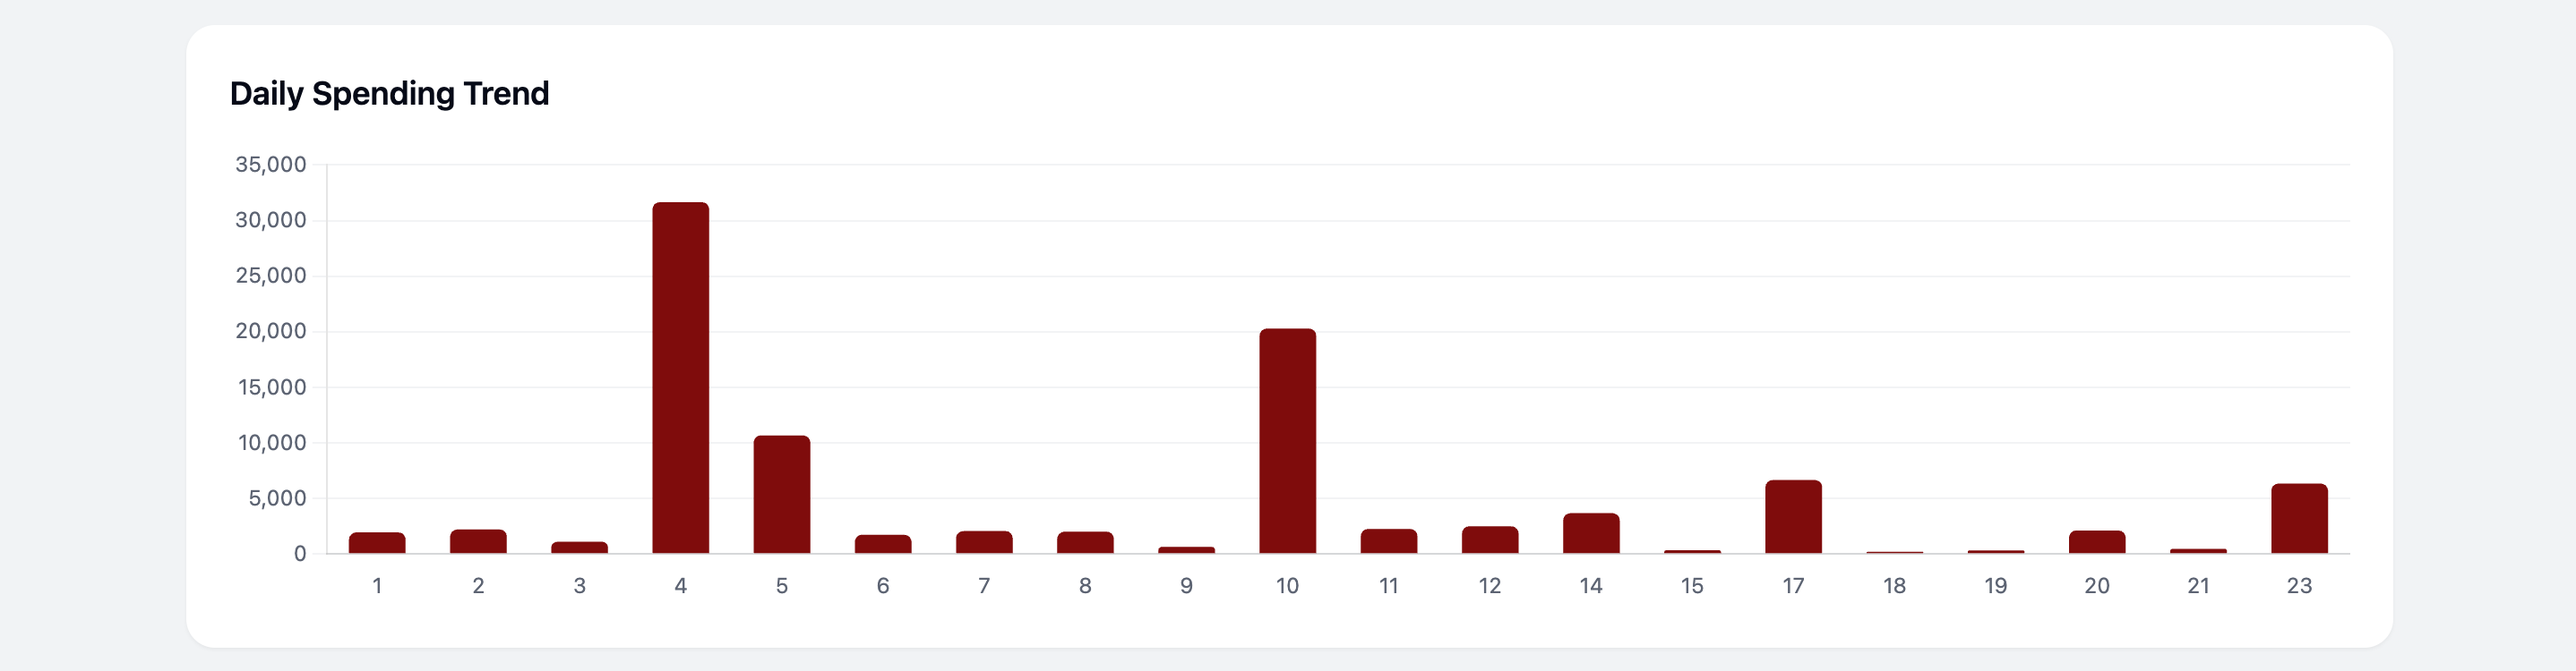
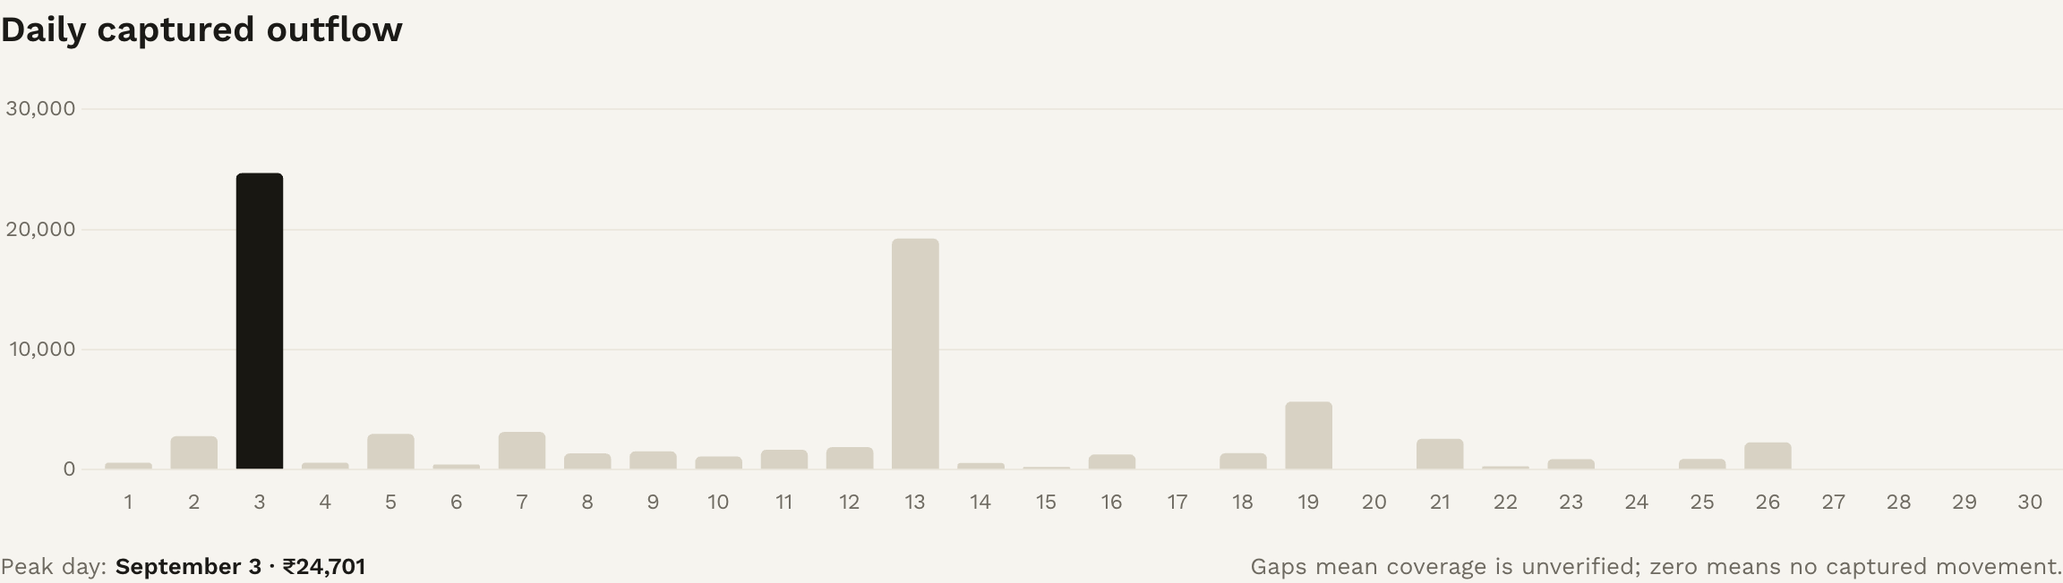
docs: update README and screenshots for the redesign
Screenshots now come from the synthetic demo database instead of real data.
Documents the review workflows, merchant-wide edits, comparison rules, demo data,
the reviewed-repair tool and migrations 005 to 007.

diff --git a/README.md b/README.md
@@ -8,37 +8,42 @@ A fully automated personal finance tracker that ingests Bank transaction emails 
 
 ![Year Overview](docs/screenshots/Year_view.png)
 
-*Annual overview: total spend, income, savings, variable-size spending intensity heatmap, and a monthly bar chart.*
+*Annual overview: captured outflow and inflow, net cash flow, a month-by-month spending-intensity grid, category totals, and monthly outflow vs inflow. All screenshots use the synthetic demo database (see [Demo data](#demo-data)).*
 
 ---
 
 ## Features
 
 ### Automated Email Ingestion → Transaction Extraction
-Connects to Gmail via OAuth2 and fetches HDFC Bank alert emails incrementally (only since the last stored date). Each email is regex-parsed to extract amount, date, direction, merchant, source, and UPI reference. Only confirmed `success` transactions are stored — failed and attempted are discarded.
+Connects to Gmail via OAuth2 and fetches every page of matching HDFC Bank alerts, with a recent overlap for late arrivals. Validated successful events enter the ledger; failed, incomplete, or ambiguous messages retain their raw evidence and processing outcome for review.
 
 ### Three-Tier Classification Engine
-Every transaction is assigned to one of 10 categories through a self-learning pipeline:
+Every transaction is assigned to one of 10 categories:
 
 ![Classifier](docs/diagrams/Classifier.png)
 
-- **Tier 1 — Rule-based:** Substring match against a `merchant_categories` table (74+ patterns). Instant, confidence = 1.0.
-- **Tier 2 — LLM fallback:** Claude Haiku classifies unmatched merchants and returns a confidence score. Results ≥ 0.9 are auto-promoted to rules for future use.
-- **Tier 3 — Manual override:** Inline category editing from the Transactions page. Every correction is auto-learned as a new rule.
+- **Tier 1 — Rules:** curated substring patterns plus exact merchant rules you create. Instant, confidence = 1.0.
+- **Tier 2 — Claude Haiku:** classifies merchants no rule matches. Responses are validated, and model decisions never create rules on their own. Incoming money is never assumed to be income, and names are never assumed to be transfers.
+- **Tier 3 — You:** anything unclassified or below 0.9 confidence is marked **Needs review**. Fix it inline; tick **Use for all payments to this merchant** to fix every automated payment to that merchant and future ones in one edit, with a single Undo.
 
 ### Monthly Dashboard with Anomaly Callouts
 
 ![Monthly Overview](docs/screenshots/Monthly_Overview.png)
 
-Flags categories spending >50% above their 3-month rolling average (with a minimum ₹500 absolute deviation) as amber callout cards. Stats cards show total spend, month-over-month % change, and top category share.
+Compares each category's spend over the elapsed days of the month with the same days in the previous three months. Categories more than 50% (and ₹500) above their average are listed; jumps of 100% or more are flagged. The month-over-month change and anomaly callouts appear only when every compared period has verified scan coverage, and a banner links to transactions that need review.
 
 ![Daily Spending Trend](docs/screenshots/Daily_Spend_Trend.png)
 
-### Transactions with Low-Confidence Flagging
+*Days without verified coverage show as gaps, never as zero spending.*
+
+### Transactions and the Needs Review List
 
 ![Transactions](docs/screenshots/Transactions.png)
 
-Live search, category filter, and paginated table. Transactions classified by the LLM with confidence < 0.9 are flagged with a **"Low Confidence — verify"** indicator and an amber row highlight. Correcting the category inline clears the flag and auto-learns the rule.
+Live search, category filter, and pagination. The **Needs review** tab lists unclassified and low-confidence decisions grouped by merchant, largest groups first, so one merchant-wide fix clears the most rows.
+
+### Data Quality: Review Queue and Data Status
+Bank alerts the parser cannot read confidently are quarantined on the **Review** page with reasons, outside all totals. After a parser update, **Retry with current parser** reprocesses a message in one click. The **Data status** page shows pipeline health, scan coverage, and backlogs.
 
 ### Natural Language Query Bot
 
@@ -57,7 +62,7 @@ Example questions:
 All generated SQL is validated (SELECT/WITH only, no DDL), capped at 50 rows, and executed with an 8-second timeout.
 
 ### Nightly Automation
-A macOS launchd job runs four phases at 00:01 every night — ingestion, extraction, classification, and a staleness health check that sends a macOS notification if no emails have been ingested for 3+ days.
+A macOS launchd job runs ingestion, extraction, classification, and health checks at 00:01 every night. It continues useful backlog work after a failure, returns a nonzero aggregate exit status, and uses completion coverage rather than the age of the last bank email. Scheduled checks send configured email alerts on failures; manual checks are quiet unless `--notify` is supplied.
 
 ---
 
@@ -73,6 +78,208 @@ A macOS launchd job runs four phases at 00:01 every night — ingestion, extract
 
 ---
 
+## Database setup and regression tests
+
+Create the `expenso` database, then apply migrations in filename order:
+
+```bash
+psql -U postgres -c 'CREATE DATABASE expenso;'
+psql -v ON_ERROR_STOP=1 -1 -U postgres -d expenso \
+  -f migrations/000_create_raw_emails.sql \
+  -f migrations/001_create_transactions.sql \
+  -f migrations/002_add_classification_fields.sql \
+  -f migrations/003_event_validation_and_review.sql \
+  -f migrations/004_pipeline_tracking.sql \
+  -f migrations/005_historical_correction_audit.sql \
+  -f migrations/006_classification_review.sql \
+  -f migrations/007_classification_edit_batches.sql
+poetry run python -m unittest discover -s tests -v
+```
+
+Python entry points load the project-root `.env` before reading configuration;
+exported variables take precedence. `EXPENSO_ENV_FILE` selects an alternate file.
+Database regression tests create and stop a disposable PostgreSQL cluster, using
+synthetic records only. Set `PG_BIN` to its binaries if they are not on PATH;
+Postgres.app 17 is also detected. Missing binaries skip the database tests.
+
+Extraction replay preserves existing classifications, including manual edits.
+Batch counts report committed input records, including updates and repeated IDs,
+not newly created rows. Unassigned categories display as **Unclassified**.
+
+### Upgrading an existing installation
+
+For an installation that already has migrations 001 and 002, apply the additive
+event-validation, pipeline-tracking, repair-audit and classification migrations
+before running the updated app or job:
+
+```bash
+psql -v ON_ERROR_STOP=1 -1 -U postgres -d expenso \
+  -f migrations/003_event_validation_and_review.sql \
+  -f migrations/004_pipeline_tracking.sql \
+  -f migrations/005_historical_correction_audit.sql \
+  -f migrations/006_classification_review.sql \
+  -f migrations/007_classification_edit_batches.sql
+```
+
+Do not rerun migration 002 as an upgrade step: its seed UPSERTs replace existing
+merchant rules. Migration 003 preserves historical rows and adds validation for
+new/updated records; existing invalid records require a separately reviewed
+backfill before validating the constraint across all history.
+
+The parser uses exact decimal amounts, explicit movement wording, complete dates,
+and decoded message bodies. Incomplete, conflicting, unsupported-currency, and
+possible-duplicate messages are kept on the **Review** page (`/review`) with
+reasons, outside financial totals. Raw email evidence is retained. After a parser
+fix, reparse an item with **Retry with current parser**, or all of them at once:
+
+```bash
+poetry run python app/extract_transactions.py --retry-review --limit 100
+```
+
+Notification mappings prevent repeated ingestion from changing totals. Bank
+references are scoped to channel, account suffix, and event kind. Refunds and
+reversals retain separate events and link to an unambiguous original, in either
+arrival order. Similar card notices and repeated credits require review rather
+than automatic merging. A matching legacy notification retains its original ID
+and manual classification; conflicting reprocessing is queued without rewriting
+its original financial record. This does not repair previously collapsed events
+or certify that every bank template is supported.
+
+### Classification and manual corrections
+
+Classification decisions do not create merchant rules automatically. Incoming
+movement alone does not establish income; new incoming transactions are marked
+Other with review required. Unknown names are not assumed to be transfers.
+Model-derived rules retain their original confidence and model provenance;
+existing model rules match only the exact normalized merchant. Curated substring
+rules match literal text, including `%` and `_` characters.
+
+Category edits default to **this transaction only**. For outgoing payments, the
+optional **Use for all payments to this merchant** checkbox creates an exact rule
+for future payments and also recategorizes the merchant's other *automated*
+payments (rule or model decisions, including unclassified ones). Payments you
+categorized yourself are never changed. The checkbox shows how many payments it
+will update. Transaction, batch and rule changes commit together, and each batch
+row is recorded in `classification_edits` linked to the edit you made
+(`batch_id`, migration 007). **Undo** restores the edited transaction, the rule,
+and every batch row that has not been changed since; later edits are kept. The
+Undo control appears after a successful edit (as a notice above the list for batch
+edits); history browsing is not implemented.
+
+Unclassified and low/unknown-confidence automated decisions show **Needs review**,
+regardless of whether they came from a rule or the model. Manual decisions survive
+both replay and `--all` classification, including concurrent automated updates.
+Temporary classification failures remain retryable. `--dry-run` performs no
+transaction, rule, or audit writes, but can still call the paid model for previews.
+Model responses are validated and calls have explicit timeout/retry limits.
+
+Apply migrations 006 and 007 before using these controls. They add exact/substring
+rule scope and edit history; they do not rewrite stored transaction classifications.
+
+### Comparisons and unresolved messages
+
+Month-over-month changes and anomaly callouts compare only periods inside recorded
+scan coverage. An unresolved (review or failed) message blocks comparisons only for
+periods that end within 7 days before its receipt or start by the day after, since
+bank alerts arrive with or shortly after the movement; a message with an unknown
+receipt time blocks all comparisons.
+
+### Pipeline completion and recovery
+
+The normal ingestion path streams pages without a message cap. An explicit
+`--max-results` cap fails as incomplete when a continuation remains; it never
+advances the checkpoint. Stored pages survive a later failure, and the next run
+retries the window with idempotent writes. Failed or interrupted initial windows
+retain their original start date even when the next run happens days later.
+
+Incremental scans use a seven-day overlap and initially search the last 30 complete
+days if no completion checkpoint exists. Use `--overlap-days` or `--initial-days`
+to change those bounds, or run explicit monthly scans to reconcile older history.
+Late arrivals older than the overlap require an explicit historical rescan.
+Disconnected completed windows do not imply that the gap was searched.
+
+Dates use `EXPENSO_TIMEZONE` (default `Asia/Kolkata`) with epoch search bounds;
+Gmail's date-string searches otherwise use Pacific time. See the
+[Gmail filtering documentation](https://developers.google.com/workspace/gmail/api/guides/filtering)
+and [pagination contract](https://developers.google.com/workspace/gmail/api/reference/rest/v1/users.messages/list).
+Coverage means all pages of the configured sender/keyword search were persisted,
+not that every account or bank template is represented.
+
+```bash
+poetry run python -m app.ingest --mode incremental
+poetry run python -m app.pipeline extraction
+poetry run python -m app.pipeline classification
+poetry run python scripts/check_pipeline_health.py
+```
+
+`/pipeline` displays recorded stage outcomes, coverage, retryable failures, and
+extraction/classification/review backlogs. `/health` is liveness; `/ready` checks
+database/schema availability. A complete empty search may be healthy, while
+parsing quality remains unknown without enough accepted records. The parsing
+quality CLI exits 2 for insufficient evidence; the nightly job logs this as
+unknown, not a failed phase. Other failures remain nonzero.
+
+`pipeline_runs` retains per-stage attempts and counts; `email_processing_outcomes`
+records accepted, duplicate, rejected, review, and failed outcomes. Transient
+classification fallbacks remain retryable. Run the scheduled wrapper for durable
+extraction/classification stage tracking; direct utility calls do not create stage
+run records. Set `EXPENSO_PYTHON` or `EXPENSO_POETRY` for the shell runner when needed.
+
+### Staged historical repair report
+
+```bash
+poetry run python scripts/stage_historical_repair.py
+```
+
+This reads a repeatable, read-only database snapshot, reparses stored emails, and
+writes a private Markdown summary plus detailed JSON under
+`reports/historical-repair/<timestamp>/` (ignored by Git; files are owner-only).
+It works before migrations 003/004 are applied, performs no Gmail or AI calls,
+and has no apply mode. It shows proposed changes, preserved manual corrections,
+duplicate/reversal candidates, unresolved records, and current/staged totals by
+currency and month. Parser and snapshot hashes identify the evidence used.
+Uncertain old records remain in staged totals; uncertain new records stay out.
+Review flags are not proof that the historical transaction was incorrect.
+
+### Applying an investigated repair
+
+`scripts/apply_reviewed_repair.py` is a separate, explicit apply tool for a reviewed
+manifest; it does not automatically approve staged proposals. The manifest lists
+exact raw rows, existing transaction snapshots, reviewed actions and reasons, and
+expected financial fields for each confirmed or missing movement.
+
+```bash
+poetry run python scripts/apply_reviewed_repair.py path/to/manifest.json --output reports/historical-repair/reviewed/preview.json
+# Use the digest printed by the preview, after reviewing its exact actions.
+poetry run python scripts/apply_reviewed_repair.py path/to/manifest.json --expect-digest PREVIEW_DIGEST --output reports/historical-repair/reviewed/applied.json
+```
+
+Apply rejects changed evidence, stale previews, previously applied batches, and
+nearby amount/date duplicate candidates. It applies migration 005 if needed and
+commits the batch with database audit receipts in one transaction. Confirmations
+preserve every existing transaction field, including manual classifications and
+legacy channel metadata. Quarantine retains the row and changes only its status
+to `unknown`, excluding it from successful totals; original values remain in
+`historical_correction_audit`. New transactions start unclassified. The audit table
+and private JSON receipts retain before/after evidence for investigation or a
+separately reviewed reversal. No mailbox ingestion or paid classification runs.
+
+Email-based repair does not establish final bank settlement or statement completeness.
+
+## Demo data
+
+To run the dashboard without a Gmail account or real data, build a synthetic demo
+database (fictional people, invented amounts) and point the app at it:
+
+```bash
+poetry run python scripts/seed_demo.py
+DB_NAME=expenso_demo poetry run uvicorn app.main:app --port 8001
+```
+
+The script only ever drops and recreates a database whose name starts with
+`expenso_demo`. Comparisons and health checks are relative to today, so rerun it
+before a demo. The Ask page needs `ANTHROPIC_API_KEY`.
+
 ## Tech Stack
 
 | Layer | Technology |
@@ -80,7 +287,7 @@ A macOS launchd job runs four phases at 00:01 every night — ingestion, extract
 | Backend | FastAPI + Uvicorn |
 | Templating | Jinja2 |
 | Frontend interactivity | HTMX 2.0.4 (no JS framework) |
-| CSS | Tailwind CSS |
+| CSS | Hand-written design system (CSS variables, no framework) |
 | Charts | Chart.js |
 | Database | PostgreSQL + psycopg2 |
 | Gmail integration | Google API Python Client (OAuth2) |
